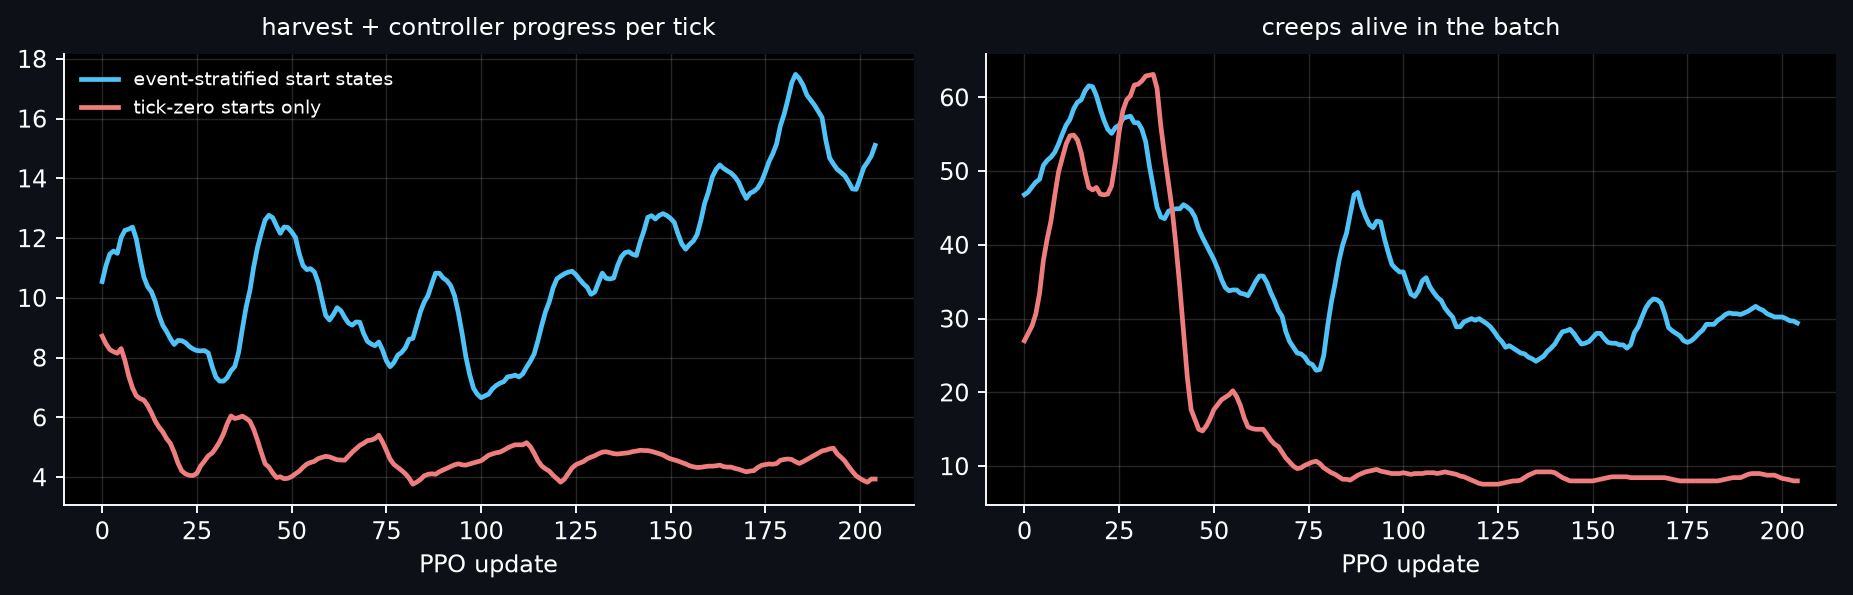
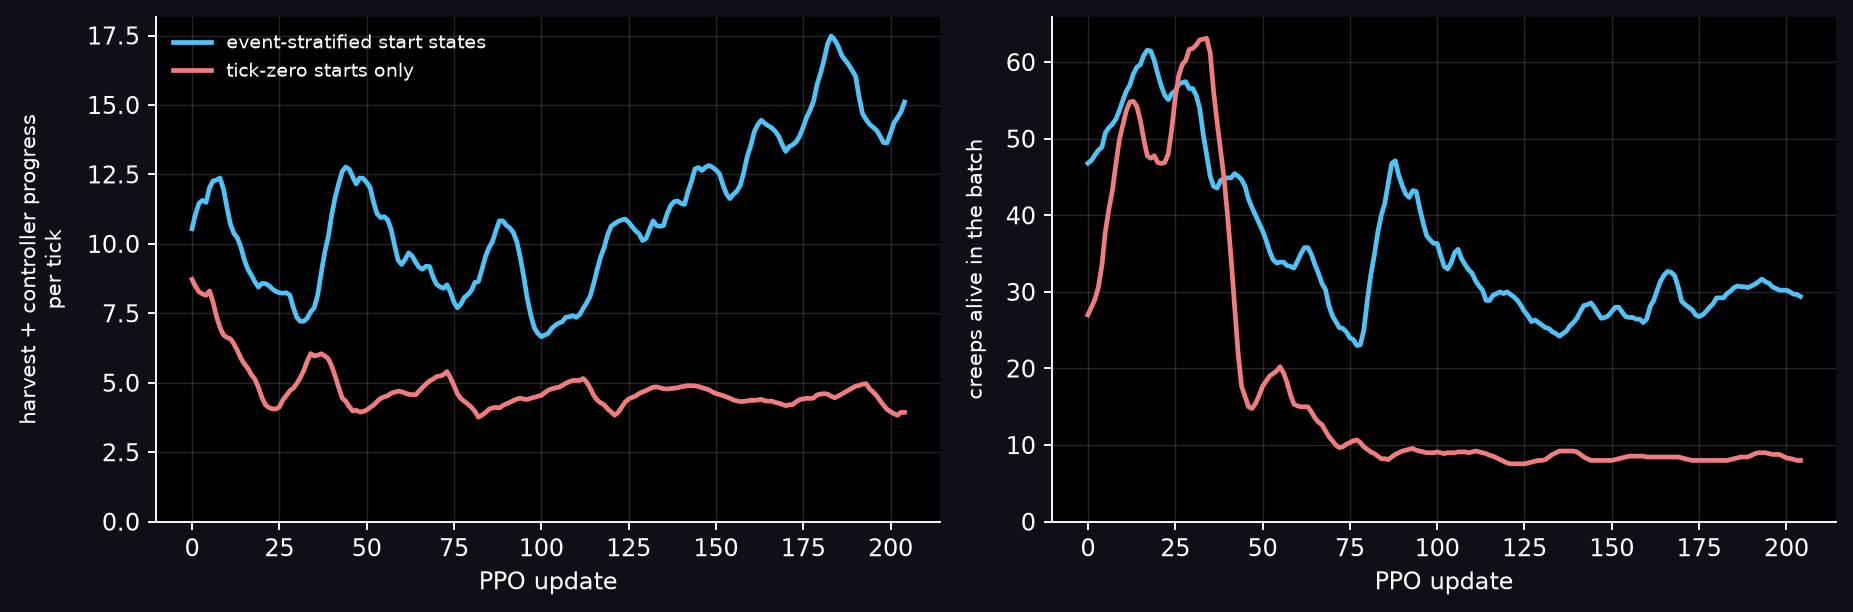
docs(rl): plainer README prose and livelier clips
Rewrites the prose without em-dashes or rhetorical constructions, so the
document reads as description rather than argument.

Replaces both clips. The cloned-policy clip was sampled at ticks 31,000, a
window with 10 creeps and 4 build intents, which showed almost nothing
happening. Mapping the burned-in HUD timeline against build activity in the
run log finds the real peaks, so both clips now come from their busiest
windows: 33 creeps and 310 build intents for the cloned policy, 30 creeps for
the reinforced one.

The training-curve figure now labels its y axes instead of describing the
quantity in a title above the plot, and both panels start at zero.

diff --git a/samples/rl/README.md b/samples/rl/README.md
@@ -1,97 +1,98 @@
 # Screeps RL
 
-Reinforcement learning for [`xxscreeps`](../../README.md): one neural policy runs
-an entire Screeps colony — every creep, spawn and tower — choosing one masked
-macro action per entity, every tick.
+Reinforcement learning for [`xxscreeps`](../../README.md). One neural policy runs
+a whole Screeps colony, choosing a masked macro action for every creep, spawn and
+tower on every tick.
 
-It learns in two stages. First it clones two teachers: a scripted planner, and
-[The International](https://github.com/The-International-Screeps-Bot/The-International-Open-Source),
-one of the strongest open-source Screeps bots. Then PPO takes over against the
+Training has two stages. The policy first clones two teachers: a scripted planner
+and [The International](https://github.com/The-International-Screeps-Bot/The-International-Open-Source),
+one of the strongest open-source Screeps bots. PPO then takes over against the
 live simulator.
 
-This is a research stack, not a competitive bot. What it does and does not do is
-measured below.
+This is a research stack rather than a competitive bot. The sections below give
+what it does, what it fails at, and the measurements behind both.
 
 ## Cloning, then reinforcement
 
 | After behaviour cloning | After PPO |
 |---|---|
 | ![cloned policy placing construction sites](docs/media/bc_building.webp) | ![reinforced policy running its economy](docs/media/ppo_economy.webp) |
-| Imitates the teachers' whole repertoire — it lays construction sites, builds, hauls, upgrades — but thinly. Sites are scattered over the room instead of clustered into a base, most are never finished, and the economy stays at RCL2 after 40,000 ticks. | Two sources saturated by ~30 creeps, energy recovered from the ground, a hauling lane to the controller, RCL3 in 7,600 ticks — and **no construction at all**. PPO kept everything that pays this tick and dropped everything that pays later. |
+| The cloned policy reproduces the teachers' full repertoire. It lays construction sites, builds, hauls and upgrades, but thinly. Sites end up scattered across the room instead of clustered into a base, most are never finished, and the economy is still at RCL2 after 40,000 ticks. | PPO saturates both energy sources with about 30 creeps, recovers dropped energy, runs a hauling lane to the controller and reaches RCL3 in 7,600 ticks. It also builds nothing. Behaviour that pays this tick survived; behaviour that pays later did not. |
 
-Both clips are 10 s of a full run recorded with
+Both clips are 12 seconds from full runs recorded with
 [`tools/record_showcase.py`](./tools/record_showcase.py).
 
 ## What it does
 
-Best current policy, scored on ten **fresh, untouched** 20,000-tick worlds at a
+The current best policy, scored on ten fresh, untouched 20,000-tick worlds at a
 seed used by neither training nor teacher collection. The score is
-`harvested_energy + controller_progress` per tick, greedy decoding:
+`harvested_energy + controller_progress` per tick under greedy decoding.
 
 | Scenario | Score/tick | Behaviour |
 |---|---:|---|
-| `empty` — bare room, one spawn | **17.1** | Grows to ~30 creeps, saturates both sources, reaches RCL3 |
-| `seed_creep` | **18.5** | Same, from a seeded worker |
-| `seed_claimer` | **17.4** | Same, plus 2 room claims |
-| `seed_full` | **13.1** | Operates an inherited mature colony |
-| `seed_outpost` | **16.6** | Works a neutral outpost |
+| `empty`, bare room with one spawn | 17.1 | Grows to about 30 creeps, saturates both sources, reaches RCL3 |
+| `seed_creep` | 18.5 | The same, starting from a seeded worker |
+| `seed_claimer` | 17.4 | The same, plus 2 room claims |
+| `seed_full` | 13.1 | Operates an inherited mature colony |
+| `seed_outpost` | 16.6 | Works a neutral outpost |
 
-An otherwise identical PPO run that differed **only in which states it trained
-from** scores 4.0. Closing that gap was a data-distribution change, not a bigger
-network — see [start states](#start-states).
+A second PPO run, identical except for the states it trained from, scores 4.0.
+Closing that gap took a change of data distribution rather than a larger network.
+See [start states](#start-states).
 
-### What reinforcement gains, and what it loses
+### What reinforcement improves, and what it drops
 
-Intents issued per update, first ten updates (still near the cloned policy)
-against the last forty:
+Intents issued per update, averaged over the first ten updates while the policy
+is still close to its cloned initialization, against the last forty.
 
 | Behaviour | Early | Late | Change |
 |---|---:|---:|---:|
-| `upgradeController` | 16,090 | 42,134 | **2.6×** |
-| `pickup` — recovering dropped energy | 5,245 | 12,600 | **2.4×** |
-| `move` — deliberate repositioning | 107 | 5,118 | **48×** |
-| `harvest` | 43,806 | 27,309 | 0.6× |
-| `build` | 6,220 | 135 | **0.02×** |
-| `createConstructionSite` | 47 | 12 | 0.3× |
+| `upgradeController` | 16,090 | 42,134 | 2.6x |
+| `pickup`, recovering dropped energy | 5,245 | 12,600 | 2.4x |
+| `move`, deliberate repositioning | 107 | 5,118 | 48x |
+| `harvest` | 43,806 | 27,309 | 0.6x |
+| `build` | 6,220 | 135 | 0.02x |
+| `createConstructionSite` | 47 | 12 | 0.3x |
 
-And on the held-out evaluation, against the control run that saw only
-tick-zero starts:
+The held-out evaluation, against the control run that only ever started at tick
+zero:
 
 | | Reinforced | Control |
 |---|---:|---:|
-| Score per tick (sum over five scenarios) | **82.7** | 20.0 |
-| Controller progress rate | **27.2** | 0.1 |
-| Remote-room harvesting | **32,228** | 0 |
-| Remote energy delivered home | **311** | 0 |
+| Score per tick, summed over five scenarios | 82.7 | 20.0 |
+| Controller progress rate | 27.2 | 0.1 |
+| Remote-room harvesting | 32,228 | 0 |
+| Remote energy delivered home | 311 | 0 |
 | Room claims | 2 | 0 |
 
-So harvesting throughput, upgrading, energy recovery and remote work all improve
-substantially, while construction is suppressed roughly 46× and claiming stays
-rare. Fewer `harvest` intents with far more delivered energy is the same story
-from the other side: less time re-deciding, more time working.
+Upgrading, energy recovery, deliberate movement and remote work all improve
+substantially. Construction is suppressed by a factor of 46 and claiming stays
+rare. Fewer `harvest` intents alongside much more delivered energy is the same
+result from another angle: less time spent re-deciding, more time working.
 
 ### Why building disappears
 
-Nothing is broken — the objective says so. PPO optimizes
-`0.1 × harvested + 1.0 × controller_progress` with `gamma = 0.995`, an effective
+The objective explains it. PPO maximizes
+`0.1 x harvested + 1.0 x controller_progress` with `gamma = 0.995`, an effective
 horizon of `1/(1-gamma) = 200` ticks. An extension costs thousands of energy now
-and repays through cheaper bodies over thousands of ticks; a claim repays even
-later. Discounted at 200 ticks, those are worth approximately nothing, while the
+and repays through cheaper bodies over thousands of ticks, and a claim repays
+later still. Discounted over 200 ticks both are worth almost nothing, while the
 same energy spent on `upgradeController` scores immediately. Construction
-survives only as low-probability policy mass — enough to appear under sampled
-decoding, never enough to be the greedy action.
+survives as low-probability policy mass, which is enough to appear under sampled
+decoding and never enough to be the greedy action.
 
-That horizon, and the 512-tick rollout it sits inside, were chosen so the whole
-loop trains on **one GPU**: 512 ticks × 12 environments is 6,144 transitions per
-update, about 16 s wall. Both are the most likely ceiling on further progress,
-and neither is cheap to lift — longer rollouts cost collection time linearly, and
-a longer horizon costs advantage variance. Candidate approaches are in
-[`docs/ROADMAP.md`](./docs/ROADMAP.md).
+That horizon and the 512-tick rollout around it were chosen to fit the whole loop
+on one GPU: 512 ticks across 12 environments gives 6,144 transitions per update,
+about 16 seconds of wall time. They are also the most likely ceiling on further
+progress, and neither is cheap to lift. Longer rollouts cost collection time
+linearly, and a longer horizon costs advantage variance. Candidate approaches are
+in [`docs/ROADMAP.md`](./docs/ROADMAP.md).
 
-**Also not yet demonstrated:** economy-funded expansion, sustained remote
-logistics late in a lifecycle, and structure placement worth building. Greedy
-evaluation hides behaviours that live in sampled mass, so every reported count
-names its decode; see [`docs/DECISIONS.md`](./docs/DECISIONS.md).
+Three other things remain undemonstrated: economy-funded expansion, sustained
+remote logistics late in a lifecycle, and structure placement good enough to be
+worth building. Greedy evaluation also hides behaviour that only exists in
+sampled policy mass, so every count above names its decode. See
+[`docs/DECISIONS.md`](./docs/DECISIONS.md).
 
 ## How it works
 
@@ -114,8 +115,8 @@ flowchart LR
 ```
 
 Every live creep, spawn and tower picks one goal-conditioned action per tick. The
-executor turns it into engine intents and owns pathfinding and traffic, so the
-network spends its capacity on decisions rather than on walking.
+executor converts it into engine intents and owns pathfinding and traffic, so the
+network spends its capacity on decisions instead of on walking.
 
 | Factor | Choices | Active when |
 |---|---:|---|
@@ -123,13 +124,13 @@ network spends its capacity on decisions rather than on walking.
 | Direction | 8 | the intent is directional |
 | Target | 128 candidates | the intent needs an object |
 | Amount | 10 bins | the intent moves resources |
-| Construction | 7 types × 2,500 tiles | room actors only |
-| Spawn body | 8 part counts + learned part order | spawns only |
+| Construction | 7 types x 2,500 tiles | room actors only |
+| Spawn body | 8 part counts plus a learned part order | spawns only |
 
-Inactive factors are masked out of the likelihood entirely, so they never enter
-cloning, entropy or the PPO ratio. Coordination happens **within a tick**: there
-is no temporal attention and no recurrent state, which is why long-lived tasks
-are [roadmap](./docs/ROADMAP.md#temporal-memory-and-options) work.
+Inactive factors are masked out of the likelihood, so they never enter cloning,
+entropy or the PPO ratio. All coordination happens within a tick. There is no
+temporal attention and no recurrent state, which is why long-lived tasks are
+[roadmap](./docs/ROADMAP.md#temporal-memory-and-options) work.
 
 ## Training
 
@@ -143,111 +144,115 @@ flowchart LR
     PPO["PPO<br/>per-actor clipped ratio"] --> E["Evaluation<br/>fresh 20k worlds only"]
 ```
 
-- **Two teachers, different jobs.** The scripted planner supplies complete labels
-  and the empty-room-to-expansion qualification target. The International plays
-  far better, and its raw engine intents give exact conservative labels for
-  targets, construction and spawn composition — but only where they map onto the
-  macro ABI. Immediate moves and multi-command ticks are dropped rather than
-  guessed.
-- **Corpus first, training second.** Lifecycles are collected once into an
-  immutable, content-addressed artifact with finite-horizon value targets
-  computed up front. Training loads only that artifact and refuses a different
-  one on resume, so a cloning result can always be traced to exact data.
-- **PPO.** Likelihood ratios are clipped per live actor, averaged within a team
-  state, then across transitions, so a 40-creep colony gets no more weight than a
-  4-creep one. `lambda = 0.95`, advantages normalized once per rollout,
-  time-limit terminals bootstrap value instead of silently truncating credit.
-- **One optimizer for both stages.** Muon — Polar Express orthogonalization with
-  NorMuon second-moment reweighting — on hidden transformer matrices, fused AdamW
-  on embeddings and heads, no learning-rate schedule anywhere.
-- **Objective.** `0.1 × harvest + 1.0 × controller_progress`, and nothing else.
-  Delivery, construction, claims and spawning stay diagnostics and qualification
-  gates: gross deltas are gameable, and a fixed claim bonus would swamp economic
-  quality.
+**Two teachers with different jobs.** The scripted planner supplies complete
+labels and the empty-room-to-expansion qualification target. The International
+plays considerably better, and its raw engine intents give exact conservative
+labels for targets, construction and spawn composition, but only where they map
+onto the macro action ABI. Immediate moves and multi-command ticks are dropped
+instead of guessed.
+
+**Corpus first, training second.** Lifecycles are collected once into an
+immutable, content-addressed artifact with finite-horizon value targets computed
+up front. Training loads only that artifact and refuses a different one on
+resume, so any cloning result can be traced back to exact data.
+
+**PPO.** Likelihood ratios are clipped per live actor, averaged within a team
+state, then averaged across transitions, so a 40-creep colony carries no more
+weight than a 4-creep one. `lambda = 0.95`, advantages are normalized once per
+rollout, and time-limit terminals bootstrap value instead of truncating credit
+silently.
+
+**One optimizer for both stages.** Muon, using Polar Express orthogonalization
+with NorMuon second-moment reweighting, updates the hidden transformer matrices;
+fused AdamW handles embeddings and heads. There is no learning-rate schedule.
+
+**Objective.** `0.1 x harvest + 1.0 x controller_progress` and nothing else.
+Delivery, construction, claims and spawning stay diagnostics and qualification
+gates, because gross deltas are gameable and a fixed claim bonus would swamp
+economic quality.
 
 ### Start states
 
-Twelve environments all starting at tick zero advance in lockstep, so every
-update draws from one narrow band of a 20,000-tick timeline. Behaviours that only
-matter later — remote hauling, replacement, recovery — stop appearing in the
-batch and get unlearned. The control run demonstrates it: its training reward
-halved while entropy, gradient norm and KL all collapsed toward zero.
+Twelve environments that all begin at tick zero advance in lockstep, so every
+update draws from one narrow band of a 20,000-tick timeline. Behaviour that only
+matters later, such as remote hauling, replacement and recovery, stops appearing
+in the batch and is unlearned. The control run shows this directly: its training
+reward halved while entropy, gradient norm and KL all collapsed toward zero.
 
-So PPO draws start states from an **event-stratified reservoir**:
+PPO therefore draws start states from an event-stratified reservoir:
 
-- half the fleet stays on untouched full lifecycles, which are the only worlds
-  whose late states follow from the policy's own earlier decisions;
-- the rest resume from snapshots of recent policy runs, successful and failed;
+- half the fleet stays on untouched full lifecycles, the only worlds whose late
+  states follow from the policy's own earlier decisions;
+- the rest resume from snapshots of recent policy runs, both successful and
+  failed;
 - a temporary teacher lane bridges phases the policy cannot reach yet, and
   retires per phase once the policy supplies its own examples.
 
-Snapshots are stratified by event, not sampled periodically — periodic sampling
-overrepresents long boring plateaus. Captured events include pre-spawn and
-pre-claim, outbound to a remote source, loaded and returning, replacement due,
-and RCL transitions. **Pre-decision** capture is the point: resuming after the
-teacher chose a body and placed a structure would train execution of a decision
-the policy never made, so the snapshot leaves the decision open and the policy
-picks its own body and placement.
+Snapshots are stratified by event rather than sampled periodically, because
+periodic sampling overrepresents long plateaus. Captured events include
+pre-spawn, pre-claim, outbound to a remote source, loaded and returning,
+replacement due, and RCL transitions. Pre-decision capture matters most:
+resuming after the teacher has chosen a body and placed a structure would train
+execution of a decision the policy never made, so the snapshot leaves the
+decision open.
 
 ![matched PPO runs differing only in start states](docs/media/training_curves.png)
 
-*Two PPO runs from the same cloned checkpoint, seed, optimizer and update count,
-differing only in start states. Both inherit a working ~50-creep colony from
-cloning; the tick-zero run loses it by update 60 and never recovers, and its
-score settles at 4 while the reservoir run climbs past 15. Evaluation on fresh
-worlds confirms it: **17.1 against 4.0**.*
+Two PPO runs from the same cloned checkpoint, seed, optimizer and update count,
+differing only in start states. Both inherit a working 50-creep colony from
+cloning. The tick-zero run loses it by update 60 and never recovers, settling at
+a score of 4, while the reservoir run climbs past 15. The held-out evaluation
+agrees: 17.1 against 4.0.
 
-Evaluation never uses snapshots — a policy scored from restored states is never
-required to reach them. Contract:
+Evaluation never uses snapshots, since a policy scored from restored states is
+never required to reach them. The contract is in
 [`docs/TRAINING.md`](./docs/TRAINING.md#start-states).
 
 ## Under the hood
 
-The parts that were least obvious to get right.
+**Spawn bodies in one pass.** A body is up to 50 parts drawn from 8 types, too
+large to enumerate and awkward to decode sequentially. One neural pass emits
+count logits for all eight types, then a fixed conditional scan masks them so
+every sampled composition is non-empty, at most 50 parts, and affordable at the
+room's current energy. A Plackett-Luce head orders only the part types with
+non-zero counts, and zero-count types take a canonical suffix, so one executed
+body has exactly one encoding. There is no length choice, no 50-step decoder and
+no energy reservation across ticks.
 
-**Spawn bodies in one pass.** A body is up to 50 parts drawn from 8 types, which
-is far too large to enumerate and awkward to decode sequentially. Instead one
-neural pass emits count logits for all eight types, then a fixed conditional scan
-masks them so every sampled composition is non-empty, at most 50 parts, and
-affordable at the room's current energy. A Plackett–Luce head then orders only
-the part types with non-zero counts; zero-count types take a canonical suffix, so
-one executed body has exactly one encoding. No length choice, no 50-step
-decoder, no energy reservation across ticks.
-
-**Macro actions, not keystrokes.** A learned action is a goal — harvest that
-source, transfer to that structure, claim that controller — and the executor
-performs one navigation or work step toward it, with traffic-aware movement and
-cached routes. Routes are cached across ticks and reused for ten ticks, and
-searches are bounded. The policy still reselects its goal every tick, so it can
-abandon a plan, but it never spends learned capacity on eight direction classes
-per step.
+**Macro actions instead of keystrokes.** A learned action is a goal: harvest that
+source, transfer to that structure, claim that controller. The executor performs
+one navigation or work step toward it with traffic-aware movement and cached
+routes, reusing a route for ten ticks and bounding searches. The policy
+reselects its goal every tick and can abandon a plan, but it never spends
+capacity choosing among eight directions per step.
 
 **Legality is part of the action.** Candidate masks, model compatibility,
 executor validation and engine behaviour all describe the same executable
-action. A legal intent with no executable argument is not offered at all, which
-is why invalid actions are rare enough to report as a defect rather than a rate
-(2 in 344,078 in the recorded run).
+action. A legal intent with no executable argument is never offered, which keeps
+invalid actions rare enough to report as a defect instead of a rate: 2 out of
+344,078 in the recorded run.
 
 **Distributional value.** The critic predicts a 409-bin HL-Gauss distribution
-over a signed-log return support rather than regressing a scalar, because
-returns here span several orders of magnitude between an empty room and a mature
-colony. Targets outside the support fail loudly instead of being clipped.
+over a signed-log support instead of regressing a scalar, because returns here
+span orders of magnitude between an empty room and a mature colony. Targets
+outside the support fail loudly rather than being clipped.
 
 **Post-tick observations.** The server applies actions, advances the simulator,
-then encodes — so the next decision sees the consequences of the last one.
-Terminal observations are preserved for value bootstrap and trajectory chains are
-cut at truncation.
+then encodes, so the next decision sees the consequences of the last one.
+Terminal observations are kept for value bootstrap and trajectory chains are cut
+at truncation.
 
-Throughput, for context: an update is 512 ticks × 12 environments stepped in
-parallel, then 12 optimizer steps, about 16 s on one RTX 5090 with collection at
-7.7 s of it. `--compile` CUDA-graphs the per-tick forward and makes collection
-1.7× faster; two other compile configurations were measured and rejected on
-memory. See [`docs/PERFORMANCE.md`](./docs/PERFORMANCE.md).
+**Throughput.** An update is 512 ticks across 12 environments stepped in
+parallel, followed by 12 optimizer steps: about 16 seconds on one RTX 5090, of
+which collection is 7.7. `--compile` CUDA-graphs the per-tick forward and makes
+collection 1.7x faster. Two other compile configurations were measured and
+rejected on memory grounds, and
+[`docs/PERFORMANCE.md`](./docs/PERFORMANCE.md) records the numbers.
 
 ## Run it
 
-Requires Python 3.10+, Node 22+, PyTorch, NumPy, TensorBoard. Local training and
-GPU evaluation go through `mlq`; `runs/` is gitignored, so a clean clone must
+Requires Python 3.10+, Node 22+, PyTorch, NumPy and TensorBoard. Local training
+and GPU evaluation go through `mlq`. `runs/` is gitignored, so a clean clone must
 produce its own artifacts.
 
 ```bash
@@ -305,7 +310,7 @@ mlq submit --name screeps-eval --max-parallel-runs 1 --cwd "$PWD" -- \
 
 Teacher snapshots for the reservoir's bridge lane are collected once with
 `samples.rl.agent.teacher_snapshots`. A PPO resume restores weights, both
-optimizers, reward normalization, counters and RNG state; environments restart,
+optimizers, reward normalization, counters and RNG state. Environments restart,
 so it continues the optimization rather than the trajectories.
 
 ## Layout
